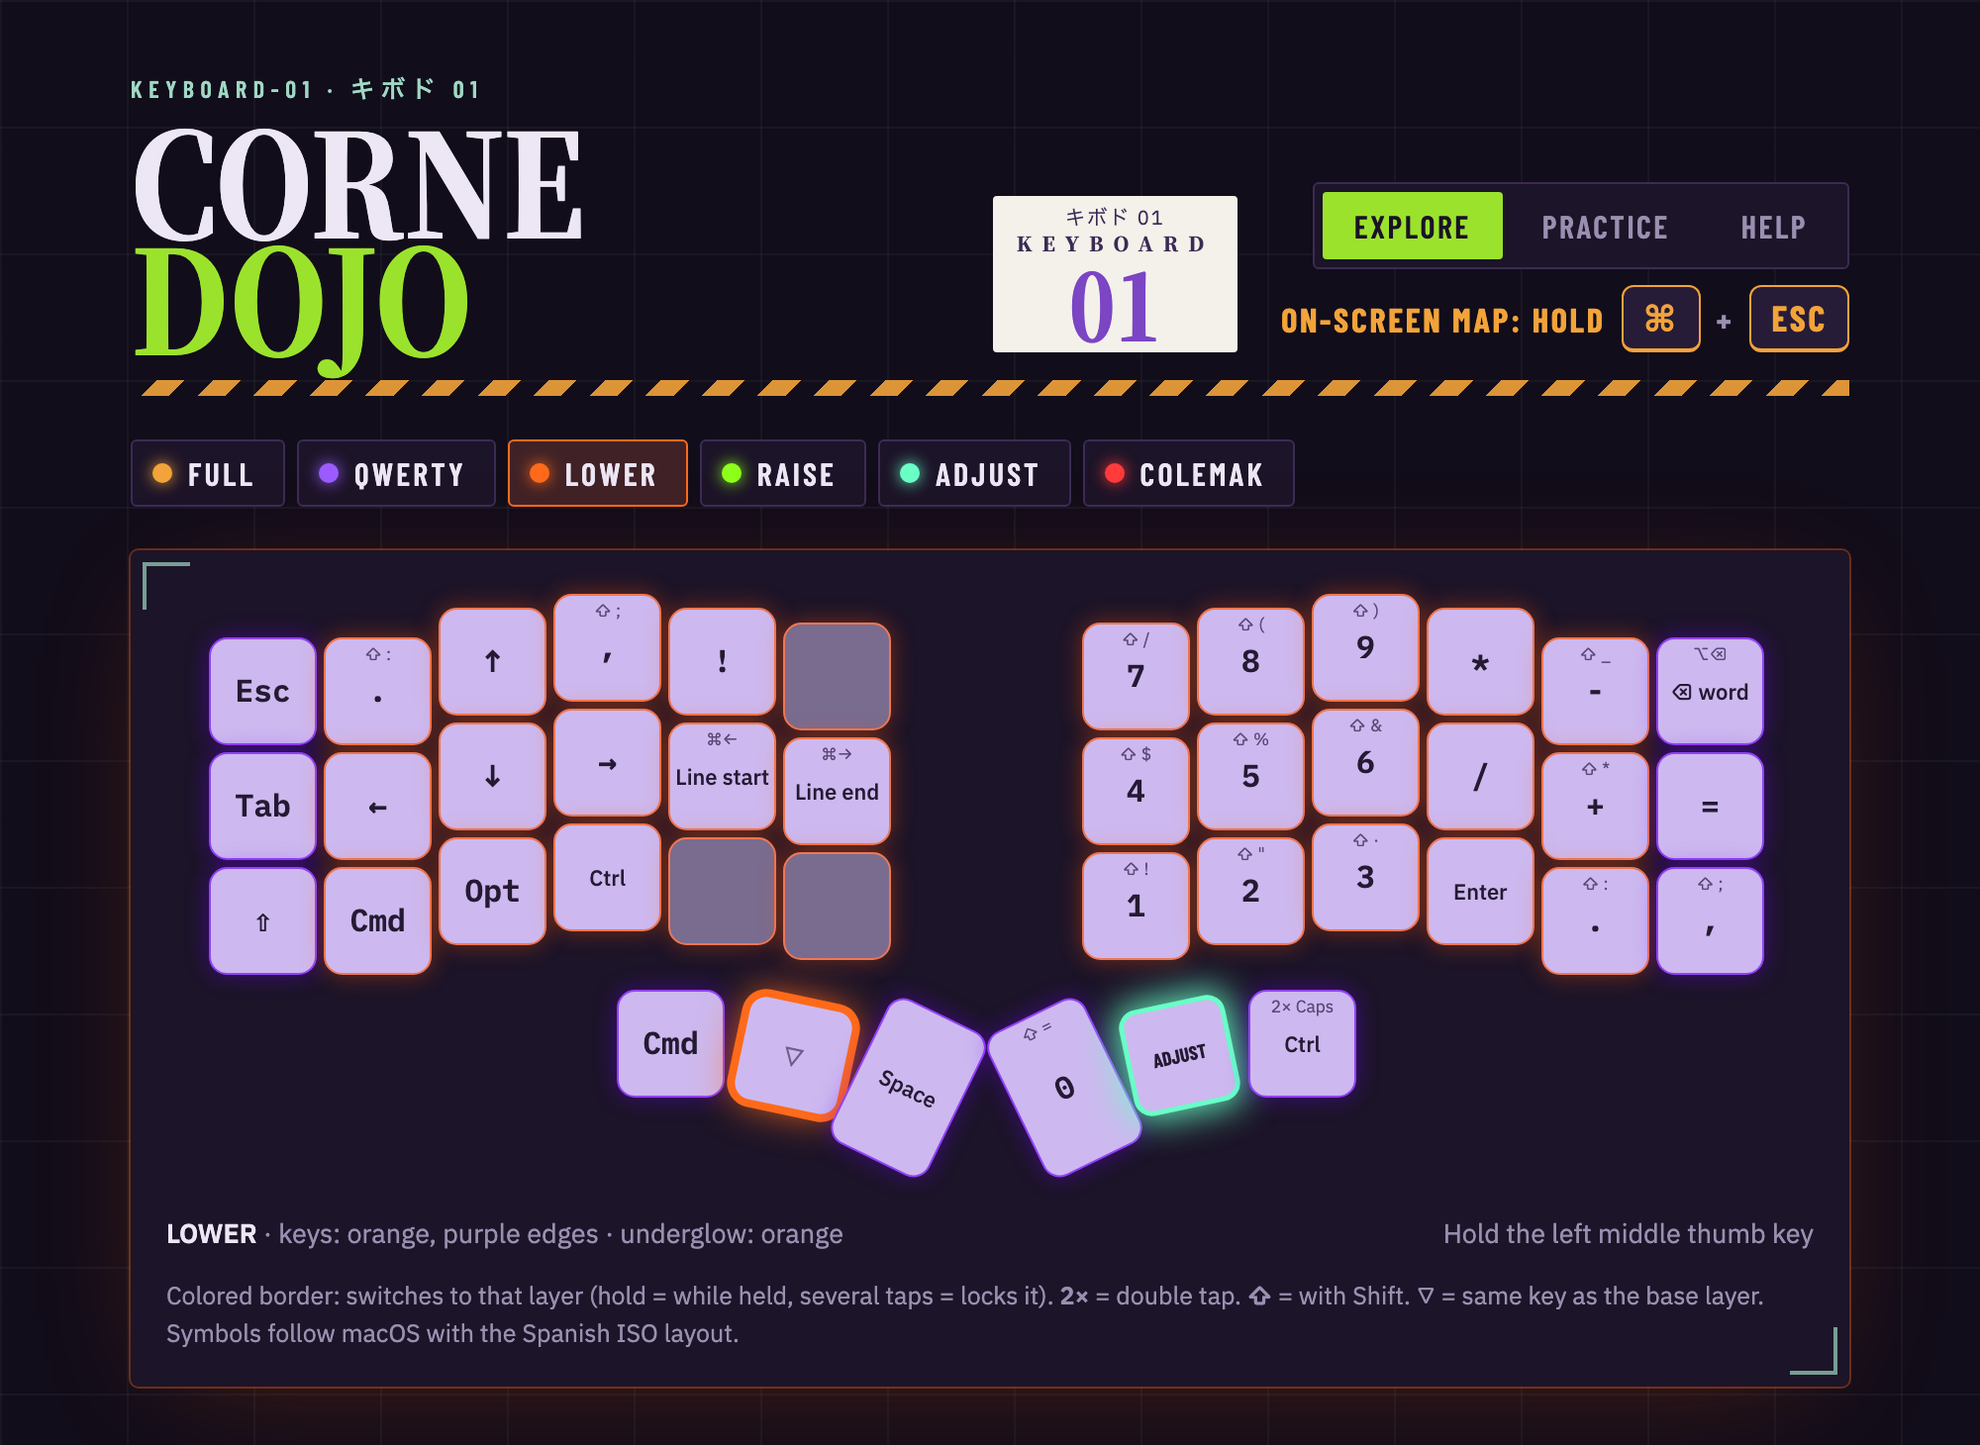
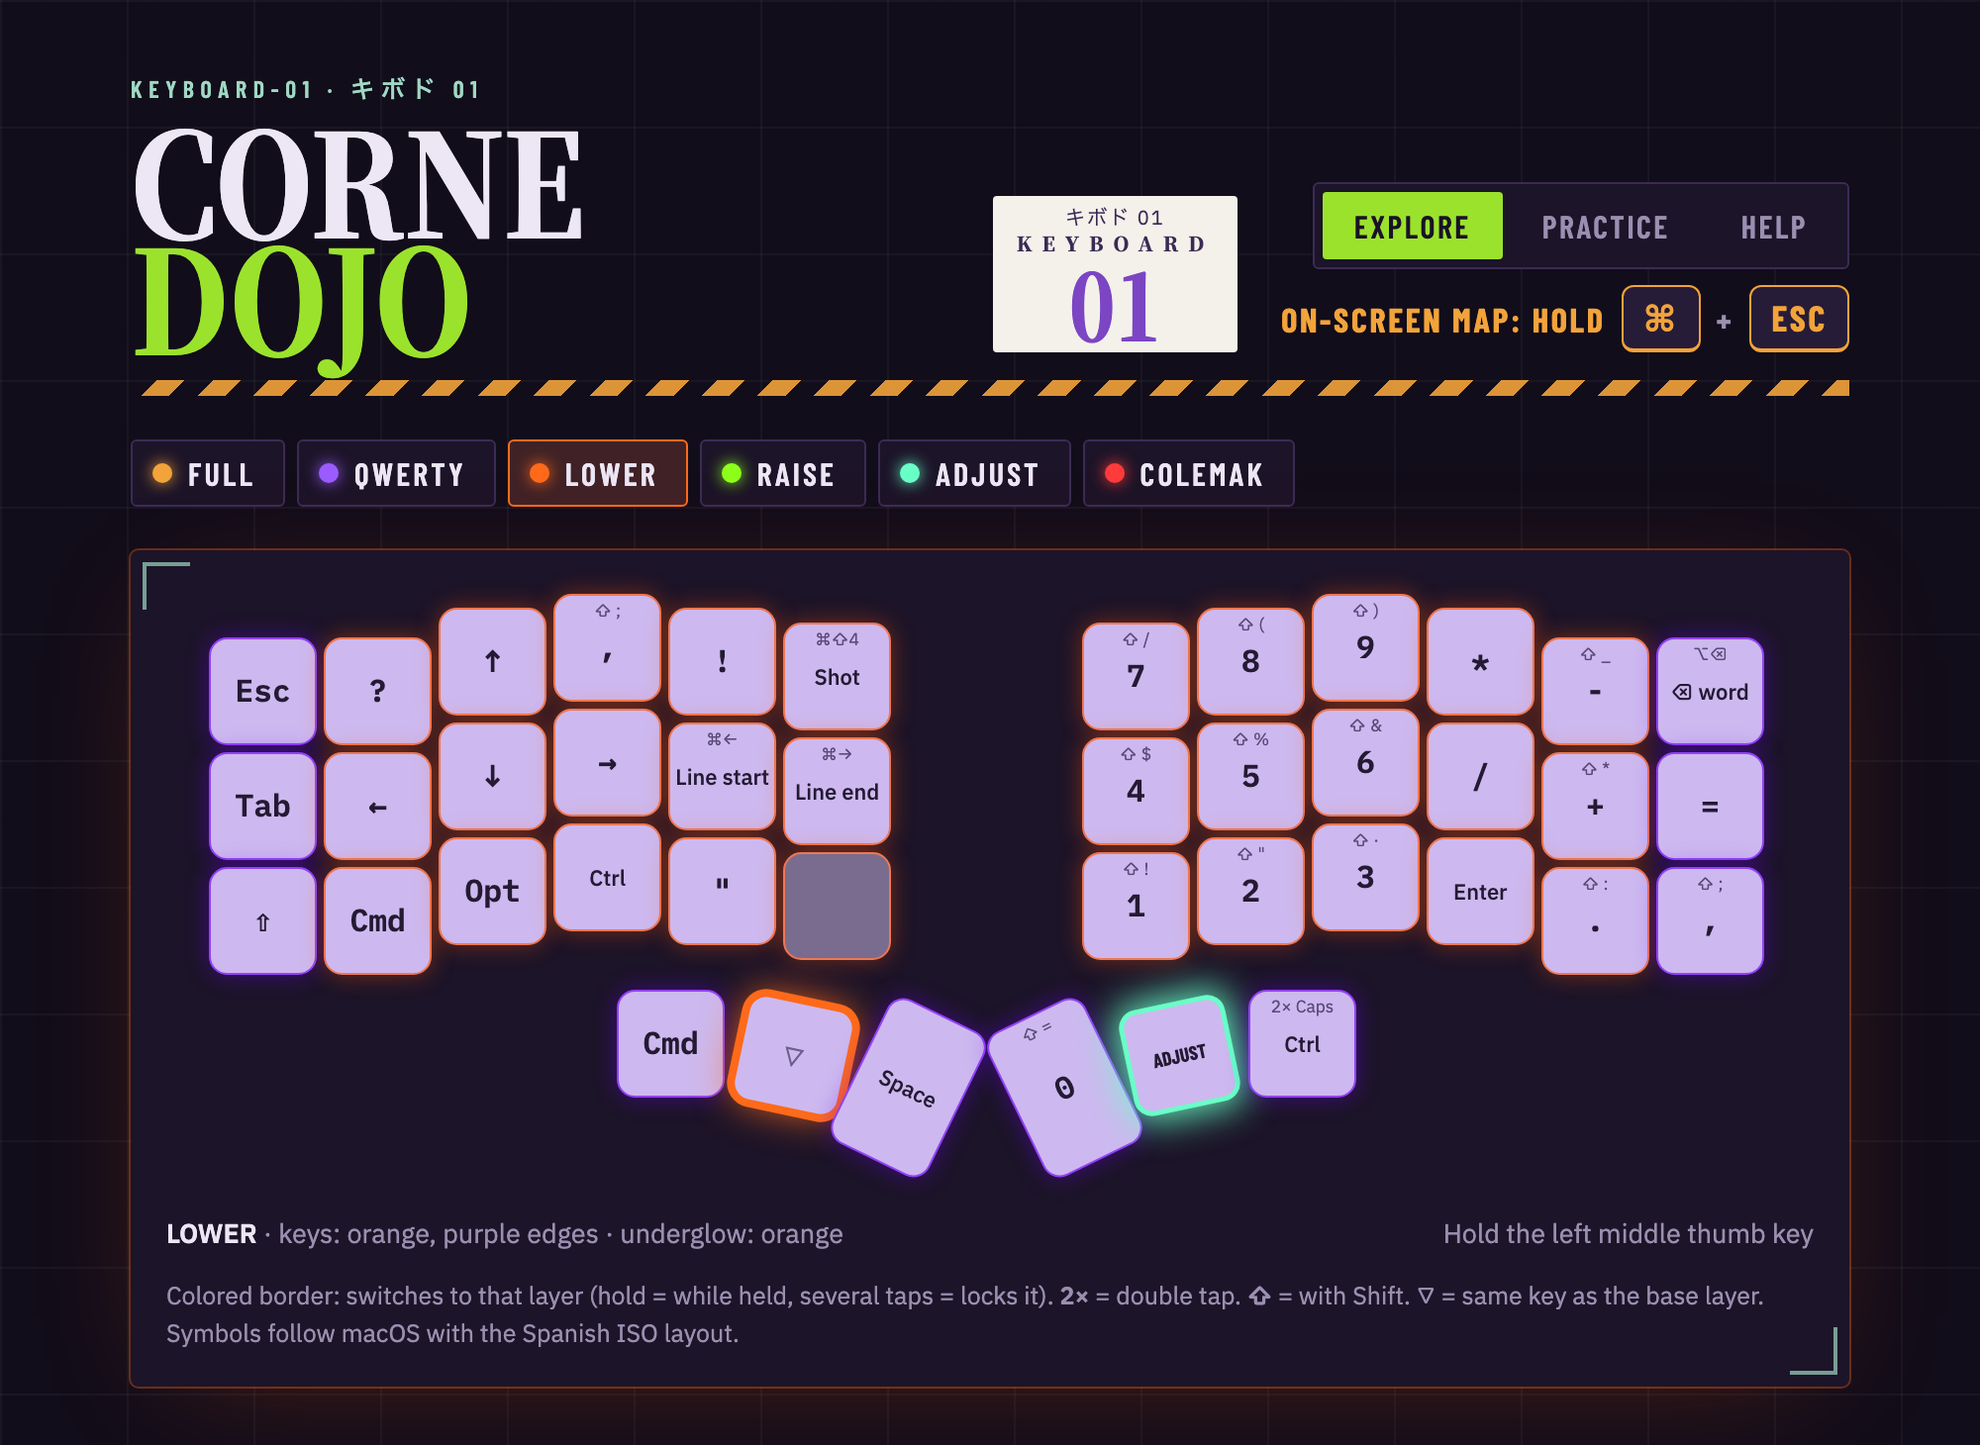
Add screenshot (⌘⇧4) on LOWER T, ? on Q and " on V
Claude-Session: https://claude.ai/code/session_014JdaJJqYqq5BgnSyjeZYJV

Changed region(s): [[0.372, 0.4315, 0.465, 0.524], [0.341, 0.5548, 0.403, 0.6781]]

diff --git a/corne/corne-dojo.html b/corne/corne-dojo.html
@@ -347,7 +347,7 @@ open -a Hammerspoon</pre>
 </div>
 
 <script>
-const KEYMAP = {"QWERTY": ["KC_ESC", "KC_Q", "KC_W", "KC_E", "KC_R", "KC_T", "KC_Y", "KC_U", "KC_I", "KC_O", "KC_P", "KC_BSPC", "KC_TAB", "TD(0)", "KC_S", "KC_D", "KC_F", "KC_G", "KC_H", "KC_J", "KC_K", "KC_L", "KC_SCLN", "KC_QUOT", "KC_LSFT", "KC_Z", "KC_X", "KC_C", "KC_V", "KC_B", "KC_N", "KC_M", "KC_COMM", "KC_DOT", "KC_SLSH", "KC_RALT", "KC_LGUI", "TT(1)", "KC_SPC", "KC_ENT", "TT(2)", "TD(1)"], "LOWER": ["KC_ESC", "KC_DOT", "KC_UP", "KC_COMM", "LSFT(KC_1)", "KC_NO", "KC_7", "KC_8", "KC_9", "LSFT(KC_RBRC)", "KC_SLSH", "LALT(KC_BSPC)", "KC_TAB", "KC_LEFT", "KC_DOWN", "KC_RGHT", "LGUI(KC_LEFT)", "LGUI(KC_RGHT)", "KC_4", "KC_5", "KC_6", "LSFT(KC_7)", "KC_RBRC", "LSFT(KC_0)", "KC_LSFT", "KC_LGUI", "KC_LALT", "KC_LCTL", "KC_NO", "KC_NO", "KC_1", "KC_2", "KC_3", "KC_ENT", "KC_DOT", "KC_COMM", "KC_LGUI", "KC_TRNS", "KC_SPC", "KC_0", "TT(3)", "TD(1)"], "RAISE": ["KC_LBRC", "RALT(KC_2)", "RALT(KC_3)", "RALT(KC_LBRC)", "RALT(KC_RBRC)", "RALT(KC_1)", "KC_MCTL", "LGUI(KC_V)", "LGUI(KC_C)", "LGUI(KC_X)", "LGUI(KC_Z)", "KC_BSPC", "KC_MINS", "KC_EQL", "LSFT(KC_MINS)", "LSFT(KC_8)", "LSFT(KC_9)", "LSFT(KC_7)", "KC_NO", "KC_RSFT", "KC_RCTL", "KC_RALT", "KC_RGUI", "KC_NO", "KC_GRV", "ES_TILD", "RALT(KC_NUBS)", "RALT(KC_QUOT)", "RALT(KC_NUHS)", "KC_NUBS", "KC_NO", "KC_NO", "KC_NO", "KC_NO", "KC_NO", "KC_NO", "KC_RBRC", "TT(3)", "LSFT(KC_0)", "KC_ENT", "KC_TRNS", "TD(1)"], "ADJUST": ["TG(4)", "KC_BTN1", "KC_MS_U", "KC_WH_U", "KC_WH_D", "KC_NO", "KC_NO", "LCA(KC_U)", "LCA(KC_UP)", "LCA(KC_I)", "KC_NO", "KC_MNXT", "KC_NO", "KC_MS_L", "KC_MS_D", "KC_MS_R", "KC_NO", "KC_NO", "LCAG(KC_RGHT)", "LCA(KC_LEFT)", "LCA(KC_ENT)", "LCA(KC_RGHT)", "KC_VOLU", "KC_MPLY", "KC_NO", "KC_NO", "KC_BTN2", "KC_NO", "KC_NO", "KC_NO", "KC_NO", "LCA(KC_J)", "LCA(KC_DOWN)", "LCA(KC_K)", "KC_VOLD", "KC_MUTE", "KC_LGUI", "KC_TRNS", "KC_SPC", "KC_ENT", "KC_TRNS", "RGB_TOG"], "COLEMAK": ["KC_ESC", "KC_Q", "KC_W", "KC_F", "KC_P", "KC_G", "KC_J", "KC_L", "KC_U", "KC_Y", "KC_SCLN", "KC_BSPC", "KC_TAB", "KC_A", "KC_R", "KC_S", "KC_T", "KC_D", "KC_H", "KC_N", "KC_E", "KC_I", "KC_O", "KC_QUOT", "KC_LSFT", "KC_Z", "KC_X", "KC_C", "KC_V", "KC_B", "KC_K", "KC_M", "KC_COMM", "KC_DOT", "KC_SLSH", "KC_ESC", "KC_LGUI", "TT(1)", "KC_SPC", "KC_ENT", "TT(2)", "TD(1)"]};
+const KEYMAP = {"QWERTY": ["KC_ESC", "KC_Q", "KC_W", "KC_E", "KC_R", "KC_T", "KC_Y", "KC_U", "KC_I", "KC_O", "KC_P", "KC_BSPC", "KC_TAB", "TD(0)", "KC_S", "KC_D", "KC_F", "KC_G", "KC_H", "KC_J", "KC_K", "KC_L", "KC_SCLN", "KC_QUOT", "KC_LSFT", "KC_Z", "KC_X", "KC_C", "KC_V", "KC_B", "KC_N", "KC_M", "KC_COMM", "KC_DOT", "KC_SLSH", "KC_RALT", "KC_LGUI", "TT(1)", "KC_SPC", "KC_ENT", "TT(2)", "TD(1)"], "LOWER": ["KC_ESC", "LSFT(KC_MINS)", "KC_UP", "KC_COMM", "LSFT(KC_1)", "LGUI(LSFT(KC_4))", "KC_7", "KC_8", "KC_9", "LSFT(KC_RBRC)", "KC_SLSH", "LALT(KC_BSPC)", "KC_TAB", "KC_LEFT", "KC_DOWN", "KC_RGHT", "LGUI(KC_LEFT)", "LGUI(KC_RGHT)", "KC_4", "KC_5", "KC_6", "LSFT(KC_7)", "KC_RBRC", "LSFT(KC_0)", "KC_LSFT", "KC_LGUI", "KC_LALT", "KC_LCTL", "LSFT(KC_2)", "KC_NO", "KC_1", "KC_2", "KC_3", "KC_ENT", "KC_DOT", "KC_COMM", "KC_LGUI", "KC_TRNS", "KC_SPC", "KC_0", "TT(3)", "TD(1)"], "RAISE": ["KC_LBRC", "RALT(KC_2)", "RALT(KC_3)", "RALT(KC_LBRC)", "RALT(KC_RBRC)", "RALT(KC_1)", "KC_MCTL", "LGUI(KC_V)", "LGUI(KC_C)", "LGUI(KC_X)", "LGUI(KC_Z)", "KC_BSPC", "KC_MINS", "KC_EQL", "LSFT(KC_MINS)", "LSFT(KC_8)", "LSFT(KC_9)", "LSFT(KC_7)", "KC_NO", "KC_RSFT", "KC_RCTL", "KC_RALT", "KC_RGUI", "KC_NO", "KC_GRV", "ES_TILD", "RALT(KC_NUBS)", "RALT(KC_QUOT)", "RALT(KC_NUHS)", "KC_NUBS", "KC_NO", "KC_NO", "KC_NO", "KC_NO", "KC_NO", "KC_NO", "KC_RBRC", "TT(3)", "LSFT(KC_0)", "KC_ENT", "KC_TRNS", "TD(1)"], "ADJUST": ["TG(4)", "KC_BTN1", "KC_MS_U", "KC_WH_U", "KC_WH_D", "KC_NO", "KC_NO", "LCA(KC_U)", "LCA(KC_UP)", "LCA(KC_I)", "KC_NO", "KC_MNXT", "KC_NO", "KC_MS_L", "KC_MS_D", "KC_MS_R", "KC_NO", "KC_NO", "LCAG(KC_RGHT)", "LCA(KC_LEFT)", "LCA(KC_ENT)", "LCA(KC_RGHT)", "KC_VOLU", "KC_MPLY", "KC_NO", "KC_NO", "KC_BTN2", "KC_NO", "KC_NO", "KC_NO", "KC_NO", "LCA(KC_J)", "LCA(KC_DOWN)", "LCA(KC_K)", "KC_VOLD", "KC_MUTE", "KC_LGUI", "KC_TRNS", "KC_SPC", "KC_ENT", "KC_TRNS", "RGB_TOG"], "COLEMAK": ["KC_ESC", "KC_Q", "KC_W", "KC_F", "KC_P", "KC_G", "KC_J", "KC_L", "KC_U", "KC_Y", "KC_SCLN", "KC_BSPC", "KC_TAB", "KC_A", "KC_R", "KC_S", "KC_T", "KC_D", "KC_H", "KC_N", "KC_E", "KC_I", "KC_O", "KC_QUOT", "KC_LSFT", "KC_Z", "KC_X", "KC_C", "KC_V", "KC_B", "KC_K", "KC_M", "KC_COMM", "KC_DOT", "KC_SLSH", "KC_ESC", "KC_LGUI", "TT(1)", "KC_SPC", "KC_ENT", "TT(2)", "TD(1)"]};
 const LED = {
  "keys": {
   "QWERTY": [
@@ -610,7 +610,7 @@ const TD = { 0: ["KC_A", "RALT(KC_2)"], 1: ["KC_RCTL", "KC_CAPS"] };
 const WIN = { "LCA(KC_U)": ["↖", "⌃⌥U"], "LCA(KC_UP)": ["▲ Top", "⌃⌥↑"], "LCA(KC_I)": ["↗", "⌃⌥I"], "LCA(KC_LEFT)": ["◀ Left", "⌃⌥←"],
   "LCA(KC_ENT)": ["Max", "⌃⌥⏎"], "LCA(KC_RGHT)": ["Right ▶", "⌃⌥→"], "LCA(KC_J)": ["↙", "⌃⌥J"], "LCA(KC_DOWN)": ["▼ Bottom", "⌃⌥↓"],
   "LCA(KC_K)": ["↘", "⌃⌥K"], "LCAG(KC_RGHT)": ["Next display", "⌃⌥⌘→"],
-  "LGUI(KC_V)": ["Paste", "⌘V"], "LGUI(KC_C)": ["Copy", "⌘C"], "LGUI(KC_X)": ["Cut", "⌘X"], "LGUI(KC_Z)": ["Undo", "⌘Z"],
+  "LGUI(KC_V)": ["Paste", "⌘V"], "LGUI(KC_C)": ["Copy", "⌘C"], "LGUI(KC_X)": ["Cut", "⌘X"], "LGUI(KC_Z)": ["Undo", "⌘Z"], "LGUI(LSFT(KC_4))": ["Shot", "⌘⇧4"],
   "LALT(KC_BSPC)": ["⌫ word", "⌥⌫"], "ES_TILD": ["~", ""], "LGUI(KC_LEFT)": ["Line start", "⌘←"], "LGUI(KC_RGHT)": ["Line end", "⌘→"] };
 const RGB = { RGB_TOG: "RGB on/off", RGB_MOD: "RGB mode", RGB_HUI: "Hue +", RGB_HUD: "Hue −", RGB_SAI: "Sat +", RGB_SAD: "Sat −", RGB_VAI: "Bright +", RGB_VAD: "Bright −" };
 

diff --git a/docs/index.html b/docs/index.html
@@ -347,7 +347,7 @@ open -a Hammerspoon</pre>
 </div>
 
 <script>
-const KEYMAP = {"QWERTY": ["KC_ESC", "KC_Q", "KC_W", "KC_E", "KC_R", "KC_T", "KC_Y", "KC_U", "KC_I", "KC_O", "KC_P", "KC_BSPC", "KC_TAB", "TD(0)", "KC_S", "KC_D", "KC_F", "KC_G", "KC_H", "KC_J", "KC_K", "KC_L", "KC_SCLN", "KC_QUOT", "KC_LSFT", "KC_Z", "KC_X", "KC_C", "KC_V", "KC_B", "KC_N", "KC_M", "KC_COMM", "KC_DOT", "KC_SLSH", "KC_RALT", "KC_LGUI", "TT(1)", "KC_SPC", "KC_ENT", "TT(2)", "TD(1)"], "LOWER": ["KC_ESC", "KC_DOT", "KC_UP", "KC_COMM", "LSFT(KC_1)", "KC_NO", "KC_7", "KC_8", "KC_9", "LSFT(KC_RBRC)", "KC_SLSH", "LALT(KC_BSPC)", "KC_TAB", "KC_LEFT", "KC_DOWN", "KC_RGHT", "LGUI(KC_LEFT)", "LGUI(KC_RGHT)", "KC_4", "KC_5", "KC_6", "LSFT(KC_7)", "KC_RBRC", "LSFT(KC_0)", "KC_LSFT", "KC_LGUI", "KC_LALT", "KC_LCTL", "KC_NO", "KC_NO", "KC_1", "KC_2", "KC_3", "KC_ENT", "KC_DOT", "KC_COMM", "KC_LGUI", "KC_TRNS", "KC_SPC", "KC_0", "TT(3)", "TD(1)"], "RAISE": ["KC_LBRC", "RALT(KC_2)", "RALT(KC_3)", "RALT(KC_LBRC)", "RALT(KC_RBRC)", "RALT(KC_1)", "KC_MCTL", "LGUI(KC_V)", "LGUI(KC_C)", "LGUI(KC_X)", "LGUI(KC_Z)", "KC_BSPC", "KC_MINS", "KC_EQL", "LSFT(KC_MINS)", "LSFT(KC_8)", "LSFT(KC_9)", "LSFT(KC_7)", "KC_NO", "KC_RSFT", "KC_RCTL", "KC_RALT", "KC_RGUI", "KC_NO", "KC_GRV", "ES_TILD", "RALT(KC_NUBS)", "RALT(KC_QUOT)", "RALT(KC_NUHS)", "KC_NUBS", "KC_NO", "KC_NO", "KC_NO", "KC_NO", "KC_NO", "KC_NO", "KC_RBRC", "TT(3)", "LSFT(KC_0)", "KC_ENT", "KC_TRNS", "TD(1)"], "ADJUST": ["TG(4)", "KC_BTN1", "KC_MS_U", "KC_WH_U", "KC_WH_D", "KC_NO", "KC_NO", "LCA(KC_U)", "LCA(KC_UP)", "LCA(KC_I)", "KC_NO", "KC_MNXT", "KC_NO", "KC_MS_L", "KC_MS_D", "KC_MS_R", "KC_NO", "KC_NO", "LCAG(KC_RGHT)", "LCA(KC_LEFT)", "LCA(KC_ENT)", "LCA(KC_RGHT)", "KC_VOLU", "KC_MPLY", "KC_NO", "KC_NO", "KC_BTN2", "KC_NO", "KC_NO", "KC_NO", "KC_NO", "LCA(KC_J)", "LCA(KC_DOWN)", "LCA(KC_K)", "KC_VOLD", "KC_MUTE", "KC_LGUI", "KC_TRNS", "KC_SPC", "KC_ENT", "KC_TRNS", "RGB_TOG"], "COLEMAK": ["KC_ESC", "KC_Q", "KC_W", "KC_F", "KC_P", "KC_G", "KC_J", "KC_L", "KC_U", "KC_Y", "KC_SCLN", "KC_BSPC", "KC_TAB", "KC_A", "KC_R", "KC_S", "KC_T", "KC_D", "KC_H", "KC_N", "KC_E", "KC_I", "KC_O", "KC_QUOT", "KC_LSFT", "KC_Z", "KC_X", "KC_C", "KC_V", "KC_B", "KC_K", "KC_M", "KC_COMM", "KC_DOT", "KC_SLSH", "KC_ESC", "KC_LGUI", "TT(1)", "KC_SPC", "KC_ENT", "TT(2)", "TD(1)"]};
+const KEYMAP = {"QWERTY": ["KC_ESC", "KC_Q", "KC_W", "KC_E", "KC_R", "KC_T", "KC_Y", "KC_U", "KC_I", "KC_O", "KC_P", "KC_BSPC", "KC_TAB", "TD(0)", "KC_S", "KC_D", "KC_F", "KC_G", "KC_H", "KC_J", "KC_K", "KC_L", "KC_SCLN", "KC_QUOT", "KC_LSFT", "KC_Z", "KC_X", "KC_C", "KC_V", "KC_B", "KC_N", "KC_M", "KC_COMM", "KC_DOT", "KC_SLSH", "KC_RALT", "KC_LGUI", "TT(1)", "KC_SPC", "KC_ENT", "TT(2)", "TD(1)"], "LOWER": ["KC_ESC", "LSFT(KC_MINS)", "KC_UP", "KC_COMM", "LSFT(KC_1)", "LGUI(LSFT(KC_4))", "KC_7", "KC_8", "KC_9", "LSFT(KC_RBRC)", "KC_SLSH", "LALT(KC_BSPC)", "KC_TAB", "KC_LEFT", "KC_DOWN", "KC_RGHT", "LGUI(KC_LEFT)", "LGUI(KC_RGHT)", "KC_4", "KC_5", "KC_6", "LSFT(KC_7)", "KC_RBRC", "LSFT(KC_0)", "KC_LSFT", "KC_LGUI", "KC_LALT", "KC_LCTL", "LSFT(KC_2)", "KC_NO", "KC_1", "KC_2", "KC_3", "KC_ENT", "KC_DOT", "KC_COMM", "KC_LGUI", "KC_TRNS", "KC_SPC", "KC_0", "TT(3)", "TD(1)"], "RAISE": ["KC_LBRC", "RALT(KC_2)", "RALT(KC_3)", "RALT(KC_LBRC)", "RALT(KC_RBRC)", "RALT(KC_1)", "KC_MCTL", "LGUI(KC_V)", "LGUI(KC_C)", "LGUI(KC_X)", "LGUI(KC_Z)", "KC_BSPC", "KC_MINS", "KC_EQL", "LSFT(KC_MINS)", "LSFT(KC_8)", "LSFT(KC_9)", "LSFT(KC_7)", "KC_NO", "KC_RSFT", "KC_RCTL", "KC_RALT", "KC_RGUI", "KC_NO", "KC_GRV", "ES_TILD", "RALT(KC_NUBS)", "RALT(KC_QUOT)", "RALT(KC_NUHS)", "KC_NUBS", "KC_NO", "KC_NO", "KC_NO", "KC_NO", "KC_NO", "KC_NO", "KC_RBRC", "TT(3)", "LSFT(KC_0)", "KC_ENT", "KC_TRNS", "TD(1)"], "ADJUST": ["TG(4)", "KC_BTN1", "KC_MS_U", "KC_WH_U", "KC_WH_D", "KC_NO", "KC_NO", "LCA(KC_U)", "LCA(KC_UP)", "LCA(KC_I)", "KC_NO", "KC_MNXT", "KC_NO", "KC_MS_L", "KC_MS_D", "KC_MS_R", "KC_NO", "KC_NO", "LCAG(KC_RGHT)", "LCA(KC_LEFT)", "LCA(KC_ENT)", "LCA(KC_RGHT)", "KC_VOLU", "KC_MPLY", "KC_NO", "KC_NO", "KC_BTN2", "KC_NO", "KC_NO", "KC_NO", "KC_NO", "LCA(KC_J)", "LCA(KC_DOWN)", "LCA(KC_K)", "KC_VOLD", "KC_MUTE", "KC_LGUI", "KC_TRNS", "KC_SPC", "KC_ENT", "KC_TRNS", "RGB_TOG"], "COLEMAK": ["KC_ESC", "KC_Q", "KC_W", "KC_F", "KC_P", "KC_G", "KC_J", "KC_L", "KC_U", "KC_Y", "KC_SCLN", "KC_BSPC", "KC_TAB", "KC_A", "KC_R", "KC_S", "KC_T", "KC_D", "KC_H", "KC_N", "KC_E", "KC_I", "KC_O", "KC_QUOT", "KC_LSFT", "KC_Z", "KC_X", "KC_C", "KC_V", "KC_B", "KC_K", "KC_M", "KC_COMM", "KC_DOT", "KC_SLSH", "KC_ESC", "KC_LGUI", "TT(1)", "KC_SPC", "KC_ENT", "TT(2)", "TD(1)"]};
 const LED = {
  "keys": {
   "QWERTY": [
@@ -610,7 +610,7 @@ const TD = { 0: ["KC_A", "RALT(KC_2)"], 1: ["KC_RCTL", "KC_CAPS"] };
 const WIN = { "LCA(KC_U)": ["↖", "⌃⌥U"], "LCA(KC_UP)": ["▲ Top", "⌃⌥↑"], "LCA(KC_I)": ["↗", "⌃⌥I"], "LCA(KC_LEFT)": ["◀ Left", "⌃⌥←"],
   "LCA(KC_ENT)": ["Max", "⌃⌥⏎"], "LCA(KC_RGHT)": ["Right ▶", "⌃⌥→"], "LCA(KC_J)": ["↙", "⌃⌥J"], "LCA(KC_DOWN)": ["▼ Bottom", "⌃⌥↓"],
   "LCA(KC_K)": ["↘", "⌃⌥K"], "LCAG(KC_RGHT)": ["Next display", "⌃⌥⌘→"],
-  "LGUI(KC_V)": ["Paste", "⌘V"], "LGUI(KC_C)": ["Copy", "⌘C"], "LGUI(KC_X)": ["Cut", "⌘X"], "LGUI(KC_Z)": ["Undo", "⌘Z"],
+  "LGUI(KC_V)": ["Paste", "⌘V"], "LGUI(KC_C)": ["Copy", "⌘C"], "LGUI(KC_X)": ["Cut", "⌘X"], "LGUI(KC_Z)": ["Undo", "⌘Z"], "LGUI(LSFT(KC_4))": ["Shot", "⌘⇧4"],
   "LALT(KC_BSPC)": ["⌫ word", "⌥⌫"], "ES_TILD": ["~", ""], "LGUI(KC_LEFT)": ["Line start", "⌘←"], "LGUI(KC_RGHT)": ["Line end", "⌘→"] };
 const RGB = { RGB_TOG: "RGB on/off", RGB_MOD: "RGB mode", RGB_HUI: "Hue +", RGB_HUD: "Hue −", RGB_SAI: "Sat +", RGB_SAD: "Sat −", RGB_VAI: "Bright +", RGB_VAD: "Bright −" };
 

diff --git a/corne/trainer.template.html b/corne/trainer.template.html
@@ -380,7 +380,7 @@ const TD = { 0: ["KC_A", "RALT(KC_2)"], 1: ["KC_RCTL", "KC_CAPS"] };
 const WIN = { "LCA(KC_U)": ["↖", "⌃⌥U"], "LCA(KC_UP)": ["▲ Top", "⌃⌥↑"], "LCA(KC_I)": ["↗", "⌃⌥I"], "LCA(KC_LEFT)": ["◀ Left", "⌃⌥←"],
   "LCA(KC_ENT)": ["Max", "⌃⌥⏎"], "LCA(KC_RGHT)": ["Right ▶", "⌃⌥→"], "LCA(KC_J)": ["↙", "⌃⌥J"], "LCA(KC_DOWN)": ["▼ Bottom", "⌃⌥↓"],
   "LCA(KC_K)": ["↘", "⌃⌥K"], "LCAG(KC_RGHT)": ["Next display", "⌃⌥⌘→"],
-  "LGUI(KC_V)": ["Paste", "⌘V"], "LGUI(KC_C)": ["Copy", "⌘C"], "LGUI(KC_X)": ["Cut", "⌘X"], "LGUI(KC_Z)": ["Undo", "⌘Z"],
+  "LGUI(KC_V)": ["Paste", "⌘V"], "LGUI(KC_C)": ["Copy", "⌘C"], "LGUI(KC_X)": ["Cut", "⌘X"], "LGUI(KC_Z)": ["Undo", "⌘Z"], "LGUI(LSFT(KC_4))": ["Shot", "⌘⇧4"],
   "LALT(KC_BSPC)": ["⌫ word", "⌥⌫"], "ES_TILD": ["~", ""], "LGUI(KC_LEFT)": ["Line start", "⌘←"], "LGUI(KC_RGHT)": ["Line end", "⌘→"] };
 const RGB = { RGB_TOG: "RGB on/off", RGB_MOD: "RGB mode", RGB_HUI: "Hue +", RGB_HUD: "Hue −", RGB_SAI: "Sat +", RGB_SAD: "Sat −", RGB_VAI: "Bright +", RGB_VAD: "Bright −" };
 

diff --git a/corne/qmk/kb01/keymap.c b/corne/qmk/kb01/keymap.c
@@ -22,7 +22,7 @@ tap_dance_action_t tap_dance_actions[] = {
 };
 
 // Miryoku-style: each layer is held with one thumb and its keys sit on the other hand.
-// LOWER (left thumb): numpad on the right hand, 1 on N and 0 on the Enter thumb (its Backspace deletes a word, ⌥⌫), arrows (↑ on W), . and , around ↑, ! on R, line start/end and modifiers on the left.
+// LOWER (left thumb): numpad on the right hand, 1 on N and 0 on the Enter thumb (its Backspace deletes a word, ⌥⌫), arrows (↑ on W), ? and , around ↑, ! on R, " on V, screenshot (⌘⇧4) on T, line start/end and modifiers on the left.
 // RAISE (right thumb): symbols on the left hand; Mission Control, paste, copy, cut, undo and modifiers on the right.
 // ADJUST (both): COLEMAK and the mouse on the left; Rectangle window shortcuts and media on the right.
 // Symbols follow macOS with the Spanish ISO layout.
@@ -35,9 +35,9 @@ const uint16_t PROGMEM keymaps[][MATRIX_ROWS][MATRIX_COLS] = {
                                                 KC_LGUI, TT(_LOWER),     KC_SPC,         KC_ENT, TT(_RAISE),      TD(1)
     ),
     [_LOWER] = LAYOUT_split_3x6_3(
-             KC_ESC,     KC_DOT,      KC_UP,    KC_COMM, LSFT(KC_1),      KC_NO,        KC_7,       KC_8,       KC_9,LSFT(KC_RBRC),    KC_SLSH,LALT(KC_BSPC),
+             KC_ESC,LSFT(KC_MINS),     KC_UP,    KC_COMM, LSFT(KC_1),LGUI(LSFT(KC_4)),        KC_7,       KC_8,       KC_9,LSFT(KC_RBRC),    KC_SLSH,LALT(KC_BSPC),
              KC_TAB,    KC_LEFT,    KC_DOWN,    KC_RGHT,LGUI(KC_LEFT),LGUI(KC_RGHT),           KC_4,       KC_5,       KC_6, LSFT(KC_7),    KC_RBRC, LSFT(KC_0),
-            KC_LSFT,    KC_LGUI,    KC_LALT,    KC_LCTL,      KC_NO,      KC_NO,           KC_1,       KC_2,       KC_3,     KC_ENT,     KC_DOT,    KC_COMM,
+            KC_LSFT,    KC_LGUI,    KC_LALT,    KC_LCTL, LSFT(KC_2),      KC_NO,           KC_1,       KC_2,       KC_3,     KC_ENT,     KC_DOT,    KC_COMM,
                                                 KC_LGUI,    KC_TRNS,     KC_SPC,           KC_0,TT(_ADJUST),      TD(1)
     ),
     [_RAISE] = LAYOUT_split_3x6_3(

diff --git a/README.md b/README.md
@@ -58,7 +58,7 @@ Configuration of my Corne (foostan crkbd, QMK, Pro Micro), recovered by reading 
 | Layer | How to activate | LEDs | Contents |
 |---|---|---|---|
 | **QWERTY** | base layer | EVA purple, lime green edges | Letters. Double tap `A` = `@`, double tap `Ctrl` = Caps Lock. ⇧ legends show what a key gives with Shift (`,` → `;`, `.` → `:`, `-` → `_`) |
-| **LOWER** | hold the left middle thumb key | orange, purple edges | Right hand: numpad from the inner column (`7 8 9 / 4 5 6 / 1 2 3`, 1 on N, 0 on the Enter thumb, Enter after 3) with `* - / + = . ,`; Shift gives `! " · $ % & / ( ) =`). Backspace deletes a word (⌥⌫). Left hand: arrows (↑ on W, ← ↓ → on A S D) with `.` on Q, `,` on E and `!` on R, line start/end (⌘← ⌘→) on F G, ⌘ ⌥ ⌃ |
+| **LOWER** | hold the left middle thumb key | orange, purple edges | Right hand: numpad from the inner column (`7 8 9 / 4 5 6 / 1 2 3`, 1 on N, 0 on the Enter thumb, Enter after 3) with `* - / + = . ,`; Shift gives `! " · $ % & / ( ) =`). Backspace deletes a word (⌥⌫). Left hand: arrows (↑ on W, ← ↓ → on A S D) with `?` on Q, `,` on E, `!` on R and `"` on V, screenshot (⌘⇧4) on T, line start/end (⌘← ⌘→) on F G, ⌘ ⌥ ⌃ |
 | **RAISE** | hold the right middle thumb key | lime green, purple edges | Left hand: symbols `` ` @ # [ ] \| ' ¡ ? ( ) / < ~ \ { } º + = `` (Shift: `^ ¿ > * ª`). Right hand: Mission Control, paste, copy, cut, undo (top row) and ⇧ ⌃ ⌥ ⌘ |
 | **ADJUST** | from LOWER or RAISE, hold the middle thumb key on the other side | mint, orange edges | Left hand: COLEMAK (on Esc), mouse (↑ on W, ← ↓ → on A S D), click on Q, wheel ↑ ↓ on E R, right click on X. Right hand: [Rectangle](https://rectangleapp.com) window shortcuts (⌃⌥ U ↑ I / ← ⏎ → / J ↓ K, ⌃⌥⌘→), next track, play, volume, mute. RGB on/off |
 | **COLEMAK** | in ADJUST, the `COLEMAK` key (where Esc is) swaps the base; the same key goes back | QWERTY colors, Esc and Backspace breathe red | Colemak layout |
